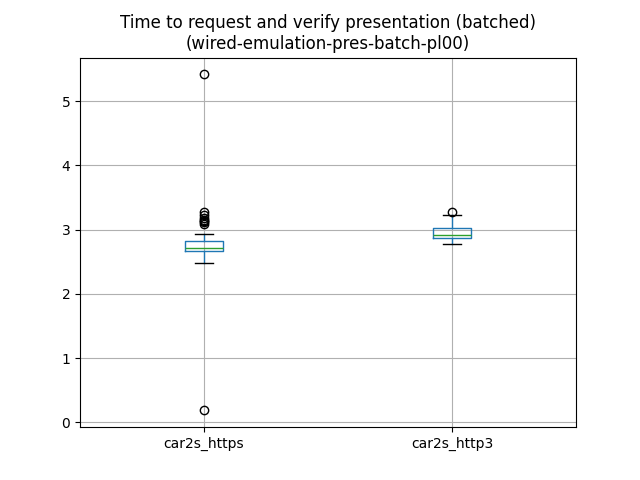
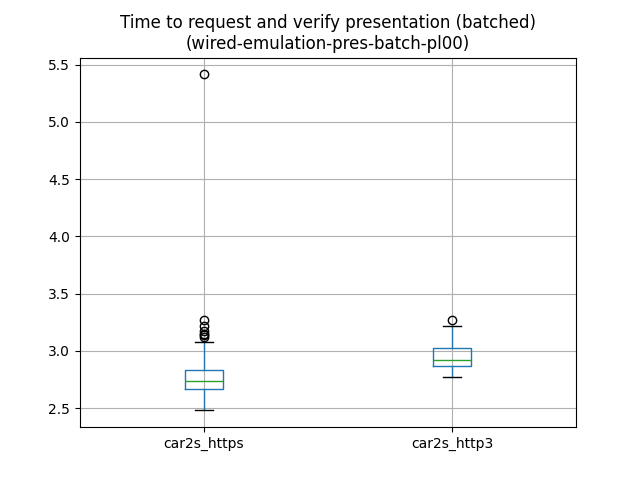
removed wrong measurement

diff --git a/evaluation/wired-emulation/pres/packetloss/wired-emulation-pres-packetloss-pres.tex b/evaluation/wired-emulation/pres/packetloss/wired-emulation-pres-packetloss-pres.tex
@@ -43,13 +43,13 @@ mark=asterisk,
 boxplot prepared={
     draw position=0.8,
     lower whisker=2.4810089850000168,
-    lower quartile=2.6687883085000124,
-    median=2.7166784650000295,
-    upper quartile=2.825455406249972,
-    upper whisker=2.931948551000005
+    lower quartile=2.669802534249982,
+    median=2.733738563500026,
+    upper quartile=2.8347859669999593,
+    upper whisker=3.081131052000046
 },
 % ] coordinates {};
-] coordinates {(0,0.18619893000004595) (0,5.415377060000083) (0,3.081131052000046) (0,3.125422919000016) (0,3.140637712000057) (0,3.1467700350000314) (0,3.271995582000045) (0,3.1787685810000994) (0,3.221992306000061)};
+] coordinates {(0,5.415377060000083) (0,3.125422919000016) (0,3.140637712000057) (0,3.1467700350000314) (0,3.271995582000045) (0,3.1787685810000994) (0,3.221992306000061)};
 \addplot+[
 fill=blue,
 draw=black,
